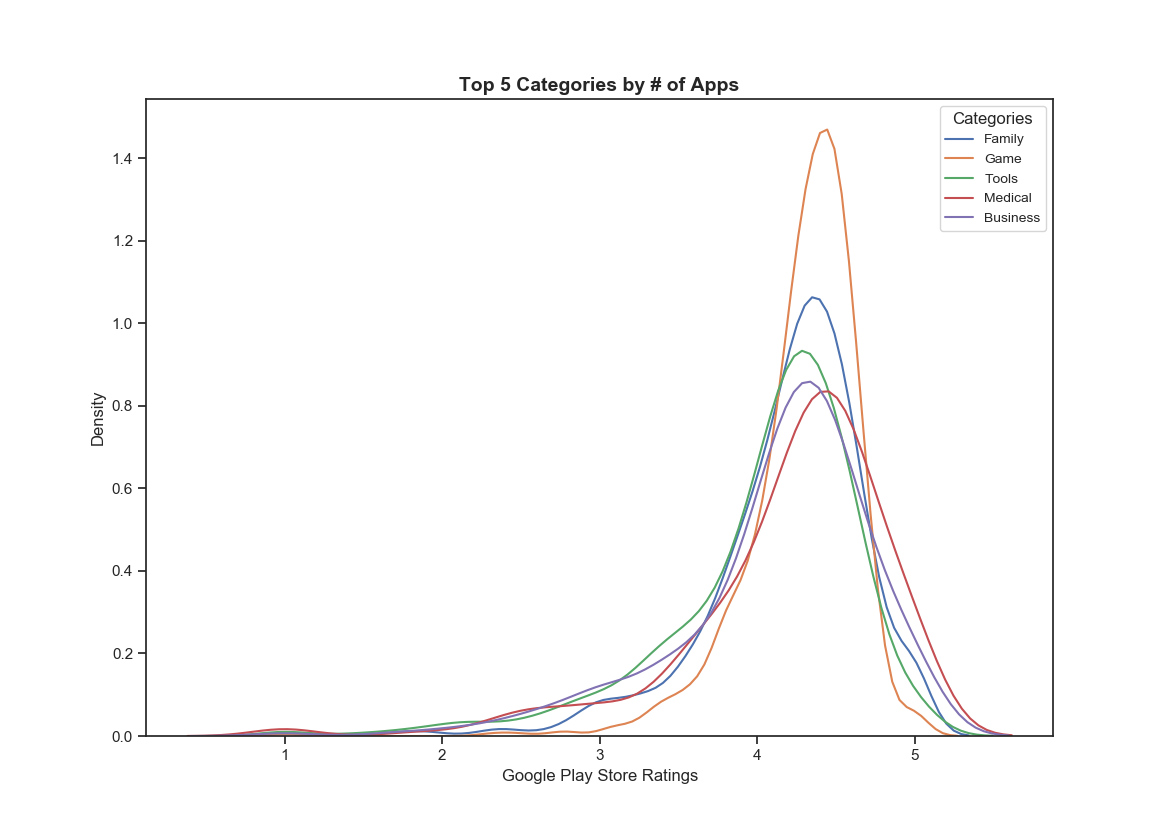
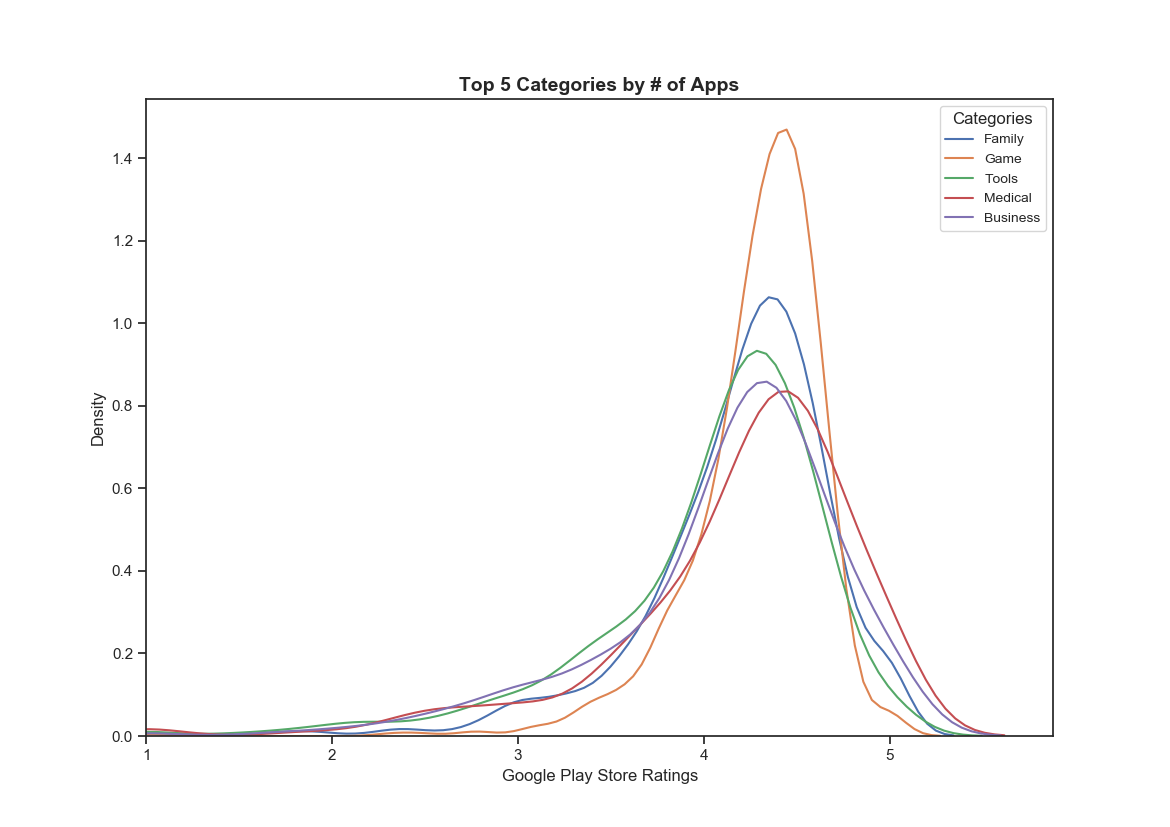
update

Changed region(s): [[0.1231, 0.1511, 0.8615, 0.9069]]

diff --git a/Graphs/Google Play Store/google_density_plots.py b/Graphs/Google Play Store/google_density_plots.py
@@ -11,7 +11,10 @@ plt.rcParams['grid.linewidth'] = 1
 plt.rcParams['grid.alpha'] = 0.2
 plt.rcParams["axes.edgecolor"] = "black"
 from adjustText import adjust_text  # Used for scatterplots
+import seaborn as sns
+sns.set(style="ticks")
 
+# Read in Google Play Store data
 google_data = pd.read_csv("\\Users\ghodg\Desktop\Projects\Python\Graphs\Google Play Store\googleplaystore.csv",
                    encoding='utf-8')
 google_data.head()
@@ -28,66 +31,64 @@ clean_data = clean_columns(google_data)
 clean_data.info()
 
 
-# Attempt at some line density plots of category and rating
-import seaborn as sns
-sns.set(style="ticks")
+# line density plots of category and rating
+def single_line_density(clean_data):
+    categories = ['Family', 'Game', 'Tools', 'Medical', 'Business']
+    google_top_category = clean_data[['category', 'rating']]
+    google_top_category = google_top_category.dropna()
+    google_top_category['category'] = google_top_category.category.str.replace('_', ' ')
+    google_top_category['category'] = google_top_category.category.str.title()
 
-categories = ['Family', 'Game', 'Tools', 'Medical', 'Business']
-google_top_category = clean_data[['category', 'rating']]
-google_top_category = google_top_category.dropna()
-google_top_category['category'] = google_top_category.category.str.replace('_', ' ')
-google_top_category['category'] = google_top_category.category.str.title()
+    for genre in categories:
+        subset = google_top_category[google_top_category['category'] == genre]
+        g = sns.distplot(subset['rating'], hist=False, kde=True,
+                         kde_kws={'linewidth': 1.5},
+                         label=genre)
 
-for genre in categories:
-    subset = google_top_category[google_top_category['category'] == genre]
-    sns.distplot(subset['rating'], hist=False, kde=True,
-                 kde_kws={'linewidth': 1.5},
-                 label=genre)
-
-# Plot formatting
-plt.legend(prop={'size': 10}, title='Categories')
-plt.title('Top 5 Categories by # of Apps', fontsize=14,
-          fontweight='bold')
-plt.xlabel('Google Play Store Ratings')
-plt.ylabel('Density')
-plt.savefig("\\Users\ghodg\Desktop\Projects\Python\Graphs\Google Play Store\Graph_outputs\\genre_top5_distplot.png")
-
+    # Plot formatting
+    plt.legend(prop={'size': 10}, title='Categories')
+    g.set(xlim=(1, None))
+    plt.title('Top 5 Categories by # of Apps', fontsize=14,
+              fontweight='bold')
+    plt.xlabel('Google Play Store Ratings')
+    plt.ylabel('Density')
+    plt.savefig("\\Users\ghodg\Desktop\Projects\Python\Graphs\Google Play Store\Graph_outputs\\genre_top5_distplot.png")
 
 
-# Other density plots, top 5 categories visualized differently
-categories = ['Family', 'Game', 'Tools', 'Medical', 'Business']
-google_den_category = clean_data[['category', 'rating']]
-google_den_category = google_den_category.dropna()
-google_den_category['category'] = google_den_category.category.str.replace('_', ' ')
-google_den_category['category'] = google_den_category.category.str.title()
-density_df = google_den_category.loc[google_den_category['category'].isin(categories)]
+def multi_line_density(clean_data):
+    categories = ['Family', 'Game', 'Tools', 'Medical', 'Business']
+    google_den_category = clean_data[['category', 'rating']]
+    google_den_category = google_den_category.dropna()
+    google_den_category['category'] = google_den_category.category.str.replace('_', ' ')
+    google_den_category['category'] = google_den_category.category.str.title()
+    density_df = google_den_category.loc[google_den_category['category'].isin(categories)]
 
-d = {'color': ['blue', 'orange', 'green', 'red', 'purple']}
-g = sns.FacetGrid(density_df,
-                  row="category",
-                  height=1.4,
-                  aspect=6,
-                  hue_kws=d,
-                  hue='category')
-g.map(sns.distplot, "rating", hist=True, rug=False)
-g.set(xlim=(1, None))
-axes = g.axes.flatten()
-axes[0].set_title('Business Apps')
-axes[1].set_title('Game Apps')
-axes[2].set_title('Family Apps')
-axes[3].set_title('Medical Apps')
-axes[4].set_title('Tools Apps')
-axes = g.axes.flatten()
-for ax in axes:
-    ax.set_ylabel("Density")
-plt.subplots_adjust(top=0.9)
-g.fig.suptitle('Top 5 Categories by # of Apps', fontweight='bold')
-sns.set(rc={'figure.figsize':(11.7,8.27)})
-plt.xlabel('Google Play Store Ratings')
+    d = {'color': ['blue', 'orange', 'green', 'red', 'purple']}
+    g = sns.FacetGrid(density_df,
+                      row="category",
+                      height=1.4,
+                      aspect=6,
+                      hue_kws=d,
+                      hue='category')
+    g.map(sns.distplot, "rating", hist=True, rug=False)
+    g.set(xlim=(1, None))
+    axes = g.axes.flatten()
+    axes[0].set_title('Business Apps')
+    axes[1].set_title('Game Apps')
+    axes[2].set_title('Family Apps')
+    axes[3].set_title('Medical Apps')
+    axes[4].set_title('Tools Apps')
+    axes = g.axes.flatten()
+    for ax in axes:
+        ax.set_ylabel("Density")
+    plt.subplots_adjust(top=0.9)
+    g.fig.suptitle('Top 5 Categories by # of Apps', fontweight='bold')
+    sns.set(rc={'figure.figsize':(11.7,8.27)})
+    plt.xlabel('Google Play Store Ratings')
 
-plt.savefig("\\Users\ghodg\Desktop\Projects\Python\Graphs\Google Play Store\Graph_outputs\\genre_top5_density_plot.png")
-
-
+    plt.savefig("\\Users\ghodg\Desktop\Projects\Python\Graphs\Google Play Store\Graph_outputs\\genre_top5_density_plot.png")
 
 
+single_line_density(clean_data)
+multi_line_density(clean_data)
 
